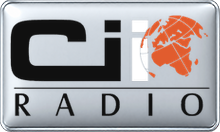
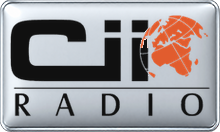
Apply user-directed manual glyph correction for case 13015

Changed region(s): [[0.5727, 0.1515, 0.6818, 0.6364]]

diff --git a/reports/warder-master-production/phase4-v10-experiment-20260925/ADJACENCY-GUARD-P1-24-CASE-SCREEN.md b/reports/warder-master-production/phase4-v10-experiment-20260925/ADJACENCY-GUARD-P1-24-CASE-SCREEN.md
@@ -4,7 +4,7 @@
 
 Ran the existing isolated contact-fraction test on 24 previously untested P1 mixed chromatic/two-tone fixtures. Selection was limited to WHITE/BLACK review rows with at most 15 component findings and at least 100 changed pixels in the triage audit; already reviewed fixtures and duplicate source paths were excluded. This was a scratch screen using the existing test logic, not a new algorithm version.
 
-All 24 cases remained REVIEW. The unchanged PASS control stayed PASS with zero changed pixels. All rows recorded unchanged alpha and protected chromatic source pixels. No candidate was applied at the initial screen run. The two later manual approvals are recorded below.
+All 24 cases remained REVIEW. The unchanged PASS control stayed PASS with zero changed pixels. All rows recorded unchanged alpha and protected chromatic source pixels. No candidate was applied at the initial screen run. The subsequent case-level manual decisions are recorded below.
 
 ## Visual spot checks
 
@@ -14,15 +14,17 @@ All 24 cases remained REVIEW. The unchanged PASS control stayed PASS with zero c
 - **#14408** — REVIEW, four components touching protected chromatic artwork, 6,507 displayed pixels differ from current. Štefan selected the middle-column CURRENT output; it remains unchanged.
 - **#6099** — REVIEW, 34 changed components, 9 unsafe components touching protected chromatic artwork, 11 pixels different from current. Štefan selected the right-hand candidate; it is manually approved and applied.
 - **#7191** — REVIEW, 18 changed components, 4 unsafe two-tone components, 49 pixels different from current. Štefan selected the right-hand candidate; it is manually approved and applied.
+- **#13015** — REVIEW, 8 unsafe components touching protected chromatic artwork or two-tone regions; the V10 candidate differs in 6,178 pixels. Štefan requested a manual correction to the middle/current output: the second glyph's white dot and stem were made black where they meet the globe. The exact corrected output was generated from the original transparent source and frozen WHITE MASTER; chromatic orange pixels and source alpha were preserved.
+- **#1856** — REVIEW, 6 unsafe components touching protected chromatic artwork or two-tone regions; the V10 candidate differs in 7,009 pixels. Štefan selected the middle-column CURRENT output, retained unchanged.
 
-The user's later manual approvals for #10085 and #6019 supersede the initial visual assessment; both exact candidates are applied with case-level audit. #6216 remains REVIEW automatically; Štefan selected the exact right-hand V10 candidate, which is manually approved and applied on the test branch. #14408 remains REVIEW automatically; Štefan selected the middle-column CURRENT output, so it is retained unchanged. This is case-level manual visual selection, not approval of the algorithm. The automatic classifier still reports REVIEW for #10085 and #6019; these are manual approvals of two exact outputs, not approval of the algorithm. Štefan also selected the exact right-hand candidates for #6099 and #7191; both are manually approved and applied on the isolated test branch. All four still report REVIEW automatically; #14408's middle/current output remains unchanged. These are case-specific approvals only.
+The user's later manual approvals for #10085 and #6019 supersede the initial visual assessment; both exact candidates are applied with case-level audit. #6216 remains REVIEW automatically; Štefan selected the exact right-hand V10 candidate, which is manually approved and applied on the test branch. #14408 remains REVIEW automatically; Štefan selected the middle-column CURRENT output, so it is retained unchanged. This is case-level manual visual selection, not approval of the algorithm. The automatic classifier still reports REVIEW for #10085 and #6019; these are manual approvals of two exact outputs, not approval of the algorithm. Štefan also selected the exact right-hand candidates for #6099 and #7191; both are manually approved and applied on the isolated test branch. #13015 remains REVIEW automatically after its user-directed case-level correction; #1856 remains REVIEW and unchanged. #14408 also remains on its middle/current output. These are case-specific decisions only.
 
 ## Audit and previews
 
 Per-case hashes, status, changed-pixel counts, output differences, and preservation assertions:
 `reports/warder-master-production/phase4-v10-experiment-20260925/ADJACENCY-GUARD-P1-24-CASE-SCREEN-AUDIT.csv`.
 
-Focused comparisons for the manually selected cases are committed as `CASE-10085-MANUAL-APPROVAL.jpg`, `CASE-6019-MANUAL-APPROVAL.jpg`, `CASE-6216-14408-MANUAL-VISUAL-DECISIONS.jpg`, `CASE-14408-MANUAL-VISUAL-DECISION.jpg`, `CASE-6099-MANUAL-APPROVAL.jpg`, and `CASE-7191-MANUAL-APPROVAL.jpg`. Case-level decision records are `CASE-10085-6019-MANUAL-APPROVAL.md` / `.csv`, `CASE-6216-14408-MANUAL-VISUAL-DECISIONS.md` / `.csv`, and `CASE-6099-7191-MANUAL-APPROVAL.md` / `.csv`. Full scratch contact sheet:
+Focused comparisons for the manually selected cases are committed as `CASE-10085-MANUAL-APPROVAL.jpg`, `CASE-6019-MANUAL-APPROVAL.jpg`, `CASE-6216-14408-MANUAL-VISUAL-DECISIONS.jpg`, `CASE-14408-MANUAL-VISUAL-DECISION.jpg`, `CASE-6099-MANUAL-APPROVAL.jpg`, and `CASE-7191-MANUAL-APPROVAL.jpg`. Case-level decision records are `CASE-10085-6019-MANUAL-APPROVAL.md` / `.csv`, `CASE-6216-14408-MANUAL-VISUAL-DECISIONS.md` / `.csv`, and `CASE-6099-7191-MANUAL-APPROVAL.md` / `.csv`, and `CASE-13015-1856-MANUAL-DECISIONS.md` / `.csv`. The #13015 manual correction and #1856 middle/current comparison are `CASE-13015-MANUAL-CORRECTION.jpg` and `CASE-1856-CURRENT-RETAINED.jpg`. Full scratch contact sheet:
 `/workspace/scratch/cb84afc29802/v10-regression-prototype/adjacency-guard-v8-p1-screen/v10-isolated-regression-preview.jpg`.
 
 This is fixture-limited safety evidence. It does not approve the V10 algorithm or a production rebuild.

diff --git a/docs/PROJECT-CHECKPOINT.md b/docs/PROJECT-CHECKPOINT.md
@@ -19,6 +19,7 @@ This dated status supersedes older immediate-resume instructions in the historic
 - Expanded v7 P1 WHITE scratch regression (2026-09-25): five additional cases (#628, #7352, #220, #858, #13193) remained REVIEW; alpha and protected chromatic pixels were unchanged, and the PASS control stayed unchanged. Existing fixture outputs/statuses remained stable. This is fixture-limited safety evidence only, not production approval. Report and audit: `reports/warder-master-production/phase4-v10-experiment-20260925/ADJACENCY-GUARD-V7-P1-REGRESSION.md` and `.../ADJACENCY-GUARD-V7-P1-REGRESSION-AUDIT.csv`.
[3 lines of base64/hex data omitted]
 - Next gate: continue isolated V10 regression work on the test branch; ambiguous or unsafe samples remain REVIEW. The failed component-mask prototype is not approved, and full-catalog rebuild still requires successful isolated regression evidence and an explicitly approved production path.
 - Do not repeat the visual review or regeneration of Batches 1–13. Continue the Phase 4 V10 workflow on the isolated test branch using the approved records and existing V10 test specification.
 

diff --git a/reports/warder-master-production/phase4-v10-experiment-20260925/CASE-13015-1856-MANUAL-DECISIONS.md b/reports/warder-master-production/phase4-v10-experiment-20260925/CASE-13015-1856-MANUAL-DECISIONS.md
@@ -1,0 +1,15 @@
+# V10 manual decisions — cases #13015 and #1856
+
+Date: 2026-09-25  
+Branch: `phase4-v10-component-mask-test`
+
+Štefan selected the **middle/current output** for #1856 and requested a specific correction to the **middle/current output** for #13015.
+
+| Case | Decision | Source SHA256 | Previous/current WHITE SHA256 | Result WHITE SHA256 | Git blob SHA | Automatic status |
+|---|---|---|---|---|---|---|
[2 lines of base64/hex data omitted]
+
+For #13015, reconstruction from the original transparent source through the frozen V9 fit/render and exact WHITE MASTER was pixel-identical to the previous/current output before the manual edit. Only the two achromatic components identified as the second glyph (dot and stem; 997 source pixels) were recolored to black. The rendered output differs from previous in 994 pixels. Source alpha and all chromatic globe pixels were preserved. Final PNG is 220×132 RGBA.
+
+Focused evidence: `CASE-13015-MANUAL-CORRECTION.jpg` shows original/current/corrected output and a magnified detail; `CASE-1856-CURRENT-RETAINED.jpg` shows original/current/V10 candidate. No algorithm-wide approval or production rebuild is implied.
